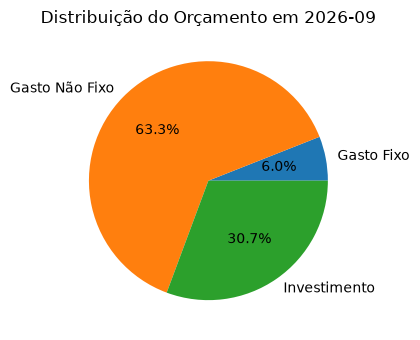
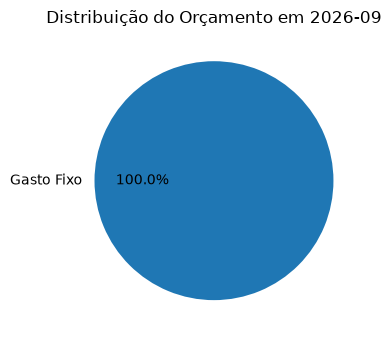
Add MainView

diff --git a/Application.py b/Application.py
@@ -10,6 +10,7 @@ import qrcode
 import PIL.Image as pilImg
 from PIL import ImageTk
 import threading
+import numpy as np
 
 from Chat import Chat
 from BancoDeDados import DataBase
@@ -31,10 +32,162 @@ class MainView(Frame):
     def __init__(self, parent):
         super().__init__(parent, bg="#f4f6f9")
         self.db = DataBase()
-        label = Label(
-            self, text="Página Inicial", font=("Helvetica", 14, "bold")
+        self.analisty = Analytics()
+
+        App.create_label(
+            self, text="Página Inicial", font=("Helvetica", 14, "bold"), pady=20
         )
-        label.pack(pady=20)
+
+        self.content = Frame(self, bg="white")
+        self.content.pack(fill="both", expand=True, padx=10, pady=10)
+        self.rowconfigure(0, weight=1)
+        self.rowconfigure(1, weight=1)
+        self.rowconfigure(2, weight=1)
+        self.content.grid_columnconfigure(0, weight=1, uniform="grupo1")
+        self.content.grid_columnconfigure(1, weight=1, uniform="grupo1")
+        self.content.grid_columnconfigure(2, weight=1, uniform="grupo1")
+        self.content.grid_columnconfigure(3, weight=1, uniform="grupo1")
+
+        self.mostraValores()
+
+        # Tabela dos gastos recentes
+        Label(self.content, bg="white", text="Últimos Gastos", font=("Helvetica", 12, "bold")).grid(row=1, column=0, columnspan=2, padx=10, pady=15, sticky="nswe")
+        Label(self.content, bg="white", text="Orçamento do Mês", font=("Helvetica", 12, "bold")).grid(row=1, column=2, columnspan=2, padx=10, pady=15, sticky="nswe")
+
+        self.frame_tabela = Frame(self.content)
+        self.frame_tabela.grid(row=2, column=0, sticky="nsew", columnspan=2, padx=10, pady=15)
+
+        self.colunas = []
+        _, self.colunas = DataBase.consultaManual("select nome, valor, tipo_gasto, categoria from gastos order by id DESC")
+
+        self.tree = App.create_tree_table(self.frame_tabela, self.colunas)
+        self.carregar_ultmos_gastos()
+
+
+        # Gráfico de orçamento do mês
+        o_img_path, _  = self.analisty.gastoOrcamentario()
+
+        self.showChart(o_img_path, row=2, col=2, colspan=2)
+
+
+
+    def mostraValores(self):
+        self.saldoTotal = StringVar()
+        self.saldoMensal = StringVar()
+        self.gastoMensal = StringVar()
+        self.mediaDiaria = StringVar()
+
+        # Saldo da conta
+        Label(self.content, bg="#b2dcff", textvariable=self.saldoTotal, font=("Helvetica", 10, "bold")).grid(row=0, column=0, padx=10, pady=15, sticky="nswe")
+        # Saldo do Mês
+        self.lbl_saldo_mensal = Label(self.content, bg="#b2dcff", textvariable=self.saldoMensal, font=("Helvetica", 10, "bold"))
+        self.lbl_saldo_mensal.grid(row=0, column=1, padx=10, pady=15, sticky="nswe")
+        # Gastos do Mês
+        Label(self.content, bg="#b2dcff", textvariable=self.gastoMensal, font=("Helvetica", 10, "bold")).grid(row=0, column=2, padx=10, pady=15, sticky="nswe")
+        # Média diária
+        Label(self.content, bg="#b2dcff", textvariable=self.mediaDiaria, font=("Helvetica", 10, "bold")).grid(row=0, column=3, padx=10, pady=15, sticky="nswe")
+
+        self.atualizar_kpis()
+
+    def atualizar_kpis(self):
+        """Consulta o banco de dados e atualiza o texto de todos os cards."""
+        hoje = datetime.today()
+        mes_atual = hoje.strftime("%Y-%m")
+        dia_atual = max(hoje.day, 1)  # previne divisão por zero no dia 0
+
+        # Consulta saldo total
+        saldo_t = DataBase.consultaSaldo()
+        saldo_t_val = saldo_t if saldo_t is not None else 0.0
+
+        # Consulta do mês atual: [0] = saldo do mês, [1] = gastos do mês
+        dados_mes = DataBase.consultaSaldo(mes=mes_atual)
+        saldo_m = dados_mes[0] if dados_mes and dados_mes[0] is not None else 0.0
+        gasto_m = dados_mes[1] if dados_mes and dados_mes[1] is not None else 0.0
+        entrada_m = dados_mes[2] if dados_mes and dados_mes[1] is not None else 0.0
+
+        media_d = gasto_m / dia_atual
+
+        # Atualiza as variáveis reativas (o Tkinter atualiza a tela na hora)
+        self.saldoTotal.set(f"Saldo Total\nR$ {saldo_t_val:.2f}")
+        self.saldoMensal.set(f"Saldo Mês\nR$ {saldo_m:.2f}")
+        self.gastoMensal.set(f"Total Gasto\nR$ {gasto_m:.2f}")
+        self.mediaDiaria.set(f"Média/Dia\nR$ {media_d:.2f}")
+
+        if saldo_m < 0:
+            self.lbl_saldo_mensal.config(
+                fg="#c0392b"
+            )  # Vermelho para valores negativos
+        elif gasto_m > (0.8*entrada_m):
+            self.lbl_saldo_mensal.config(
+                fg="#c0a52b"
+            )  # Amarelo para gasto maior que 80%
+        else:
+            self.lbl_saldo_mensal.config(
+                fg="#2c3e50"
+            )  # Cor padrão/neutra
+
+
+    def carregar_ultmos_gastos(self, dados_fetchall=None):
+        dados_fetchall, _ = DataBase.consultaManual("select nome, valor, tipo_gasto, categoria from gastos order by id DESC")
+        for item in self.tree.get_children():
+            self.tree.delete(item)
+
+        cont = 0
+        for linha in dados_fetchall:
+            if cont == 5:
+                break
+            # Formata o valor monetário
+            valores = list(linha)
+            valores[1] = f"R$ {valores[1]:.2f}"
+            self.tree.insert("", "end", values=valores)
+            cont+= 1
+
+    def showChart(self, img_path, row=0, col=0, colspan=1):
+        # Moldura individual para cada gráfico/texto dentro da grade
+        card = Frame(self.content, bg="white", bd=1, relief="solid")
+        card.grid(row=row, column=col, columnspan=colspan, sticky="nsew", padx=10, pady=15)
+        card.pack_propagate(False)  # Impede que o conteúdo altere o tamanho do card
+
+        if img_path is not None:
+            imagem_original = pilImg.open(img_path)
+            img_label = Label(card, bg="white")
+            img_label.pack(fill="both", expand=True)
+
+            ultimo = {"w": 0, "h": 0}
+
+            def redimensionar(event):
+                w = event.width
+                h = event.height
+
+                if w > 60 and h > 60:
+                    # Evita recálculos desnecessários por pequenas variações
+                    if abs(w - ultimo["w"]) > 6 or abs(h - ultimo["h"]) > 6:
+                        ultimo["w"] = w
+                        ultimo["h"] = h
+
+                        img_copy = imagem_original.copy()
+                        img_copy.thumbnail((w - 10, h - 10), pilImg.Resampling.LANCZOS)
+
+                        img_tk = ImageTk.PhotoImage(img_copy, master=card)
+                        img_label.config(image=img_tk)
+                        img_label.image = img_tk  # Previne Garbage Collector
+
+            # O evento fica no card pai, prevenindo loop infinito do Label
+            card.bind("<Configure>", redimensionar)
+            return img_label
+        else:
+            aviso_label = Label(
+                card, 
+                text="Gráfico ainda não disponível\npara esse mês", 
+                bg="white", 
+                fg="#7f8c8d",
+                justify="center",
+                wraplength=180
+            )
+            aviso_label.pack(fill="both", expand=True)
+            return aviso_label
+
+
 
 class InserirGastoView(Frame):
 
@@ -663,7 +816,7 @@ class App(Tk):
                 messagebox.showinfo(title="Saldo cadastrado com sucesso!", message=f"Saldo inicial de {saldo_inicial} cadastrado!")
 
         self.frames = {}    
-        for ViewClass in (InserirGastoView, AnaliseView, HistoricoView, SQLView):
+        for ViewClass in (InserirGastoView, AnaliseView, HistoricoView, SQLView, MainView):
             frame = ViewClass(self.container)
             self.frames[ViewClass] = frame
             frame.grid(row=0, column=0, sticky="nsew")
@@ -677,7 +830,8 @@ class App(Tk):
         self.nav_bar = Frame(self, bg="#2c3e50", height=45, bd=0, highlightthickness=0)
         self.nav_bar.pack(side="top", fill="x", expand=False)
         self.nav_bar.pack_propagate(False)  # <-- Garante que a barra não encolha nem suma!
-        
+
+        self._create_nav_button("📊 Início", MainView)
         self._create_nav_button("➕ Inserir Gasto", InserirGastoView)
         self._create_nav_button("📊 Análise", AnaliseView)
         self._create_nav_button("📋 Histórico", HistoricoView)
@@ -699,6 +853,13 @@ class App(Tk):
     def show_frame(self, frame_class):
         frame = self.frames[frame_class]
         frame.tkraise()
+
+        if hasattr(frame, "atualizar_kpis"):
+            frame.atualizar_kpis()
+        if hasattr(frame, "carregar_dados"):
+            frame.carregar_dados(DataBase.getAllGastos())
+        if hasattr(frame, "carregar_ultmos_gastos"):
+            frame.carregar_ultmos_gastos()
 
     @staticmethod
     def create_label(root, text, image=None, **kwargs):
@@ -795,16 +956,16 @@ class App(Tk):
                 tree.column("id", width=40, anchor="center")
             elif col == "dia":
                 tree.heading("dia", text="Data")
-                tree.column("dia", width=90, anchor="center")
+                tree.column("dia", width=80, anchor="center")
             elif col == "valor":
                 tree.heading("valor", text="Valor (R$)")
-                tree.column("valor", width=90, anchor="e")  # Alinhado à direita para moeda
+                tree.column("valor", width=80, anchor="e")  # Alinhado à direita para moeda
             elif col == "metodo_pagamento":
                 tree.heading("metodo_pagamento", text="Método")
                 tree.column("metodo_pagamento", width=110, anchor="w")
             else:
                 tree.heading(col, text=col)
-                tree.column(col, width=110, anchor="w")
+                tree.column(col, width=100, anchor="w")
             
 
         scrollbar = ttk.Scrollbar(root, orient="vertical", command=tree.yview)

diff --git a/BancoDeDados.py b/BancoDeDados.py
@@ -20,14 +20,13 @@ class DataBase:
             if resultado:
                 self.first = 0
                 try:
-                    DataBase.saldo = DataBase.consultaManual("select saldo_total from saldo Order by dia DESC, id DESC")[0][0][0]
+                    DataBase.saldo = DataBase.consultaSaldo()
                 except:
                     self.first = 1
                     DataBase.saldo = 0
             else:
                 self.first = 1
                 DataBase.saldo = 0
-            print("Saldo atual:", DataBase.saldo)
 
             # Cria tabela de gastos
             cursor.execute(
@@ -157,6 +156,30 @@ class DataBase:
             return cursor.fetchall(), nomes_colunas
 
     @staticmethod
+    def consultaSaldo(mes=None):
+        if mes is None:
+            return DataBase.consultaManual("select saldo_total from saldo Order by dia DESC, id DESC")[0][0][0]
+        else:
+            query = f"""
+            select
+            COALESCE(i.entradas, 0) - COALESCE(o.saidas, 0) AS saldo,
+            COALESCE(i.entradas, 0) AS entradas,
+            COALESCE(o.saidas, 0) AS saidas from 
+            (
+                select sum(valor) as saidas, strftime('%Y-%m', dia) AS mes 
+                from gastos
+                where mes = '{mes}' AND tipo_gasto in ('Gasto Fixo', 'Gasto Não Fixo')
+            ) as o,
+            (
+                select sum(valor) as entradas, strftime('%Y-%m', dia) AS mes 
+                from gastos
+                where mes = '{mes}' AND tipo_gasto in ('Entrada')
+            ) as i;
+            """
+            saldo, entrada, saida = DataBase.consultaManual(query)[0][0]
+            return saldo, saida, entrada
+
+    @staticmethod
     def atualizaSaldo(new_value, day=None):
         if day is None:
             day = datetime.today().strftime('%Y-%m-%d')
@@ -167,3 +190,6 @@ class DataBase:
 
             return new_value
         return None
+
+
+db = DataBase()
